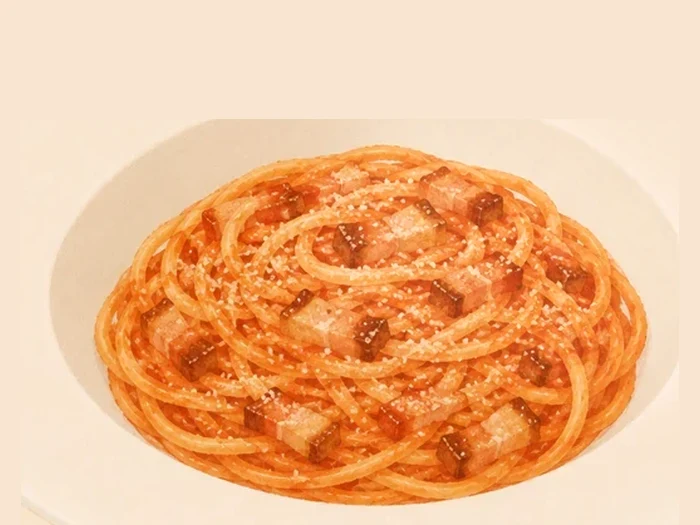
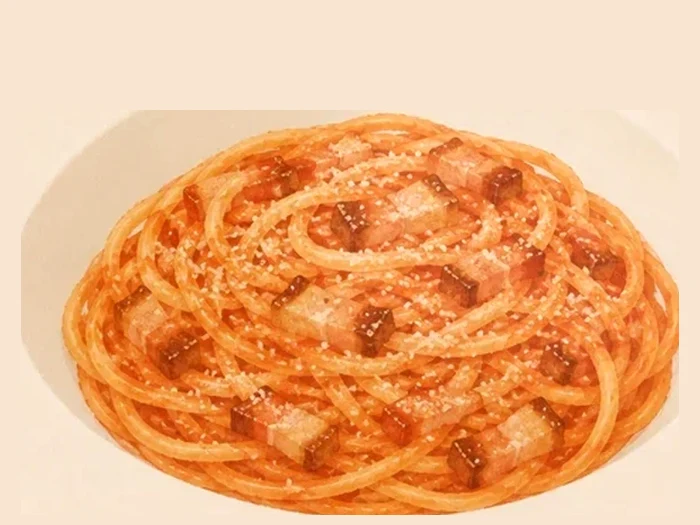
切圖不要留器皿的邊 —— 中間地帶最醜
FOOD_PAD 從 0.06 改成 0。留 6% 會變成「盤子露九成、邊緣被削掉」，
使用者的原話是「盤子又被切斷」。

要嘛器皿整個在畫面內，要嘛切到它不再是主體 ——
拌麵那張只看得到一點碗，讀起來是「麵填滿畫面」，就不覺得被切。
留一圈邊反而讓人先讀到盤子、再發現盤子破了。

重切之後食物佔畫面高度：r3 77%→93%、r14 85%→94%、r15 88%→94%、
r11 85%→93%、r10 86%→93%、r17 82%→88%。

r12 79%、r16 77% 仍偏低，是構圖問題不是切圖問題：
食物本身寬扁（三片餅一字排開、麵在盤裡攤平），寬度先撞邊，高度填不滿。

diff --git a/index.html b/index.html
@@ -808,7 +808,7 @@ ol.steps li::before {
    ══════════════════════════════════════════════ */
 
 /* 素材版本。換過圖就 bump 一次，否則瀏覽器會一直用舊的快取 */
-const ASSETS = '52';
+const ASSETS = '53';
 const asset = p => p + '?v=' + ASSETS;
 
 const $ = (s, el = document) => el.querySelector(s);
